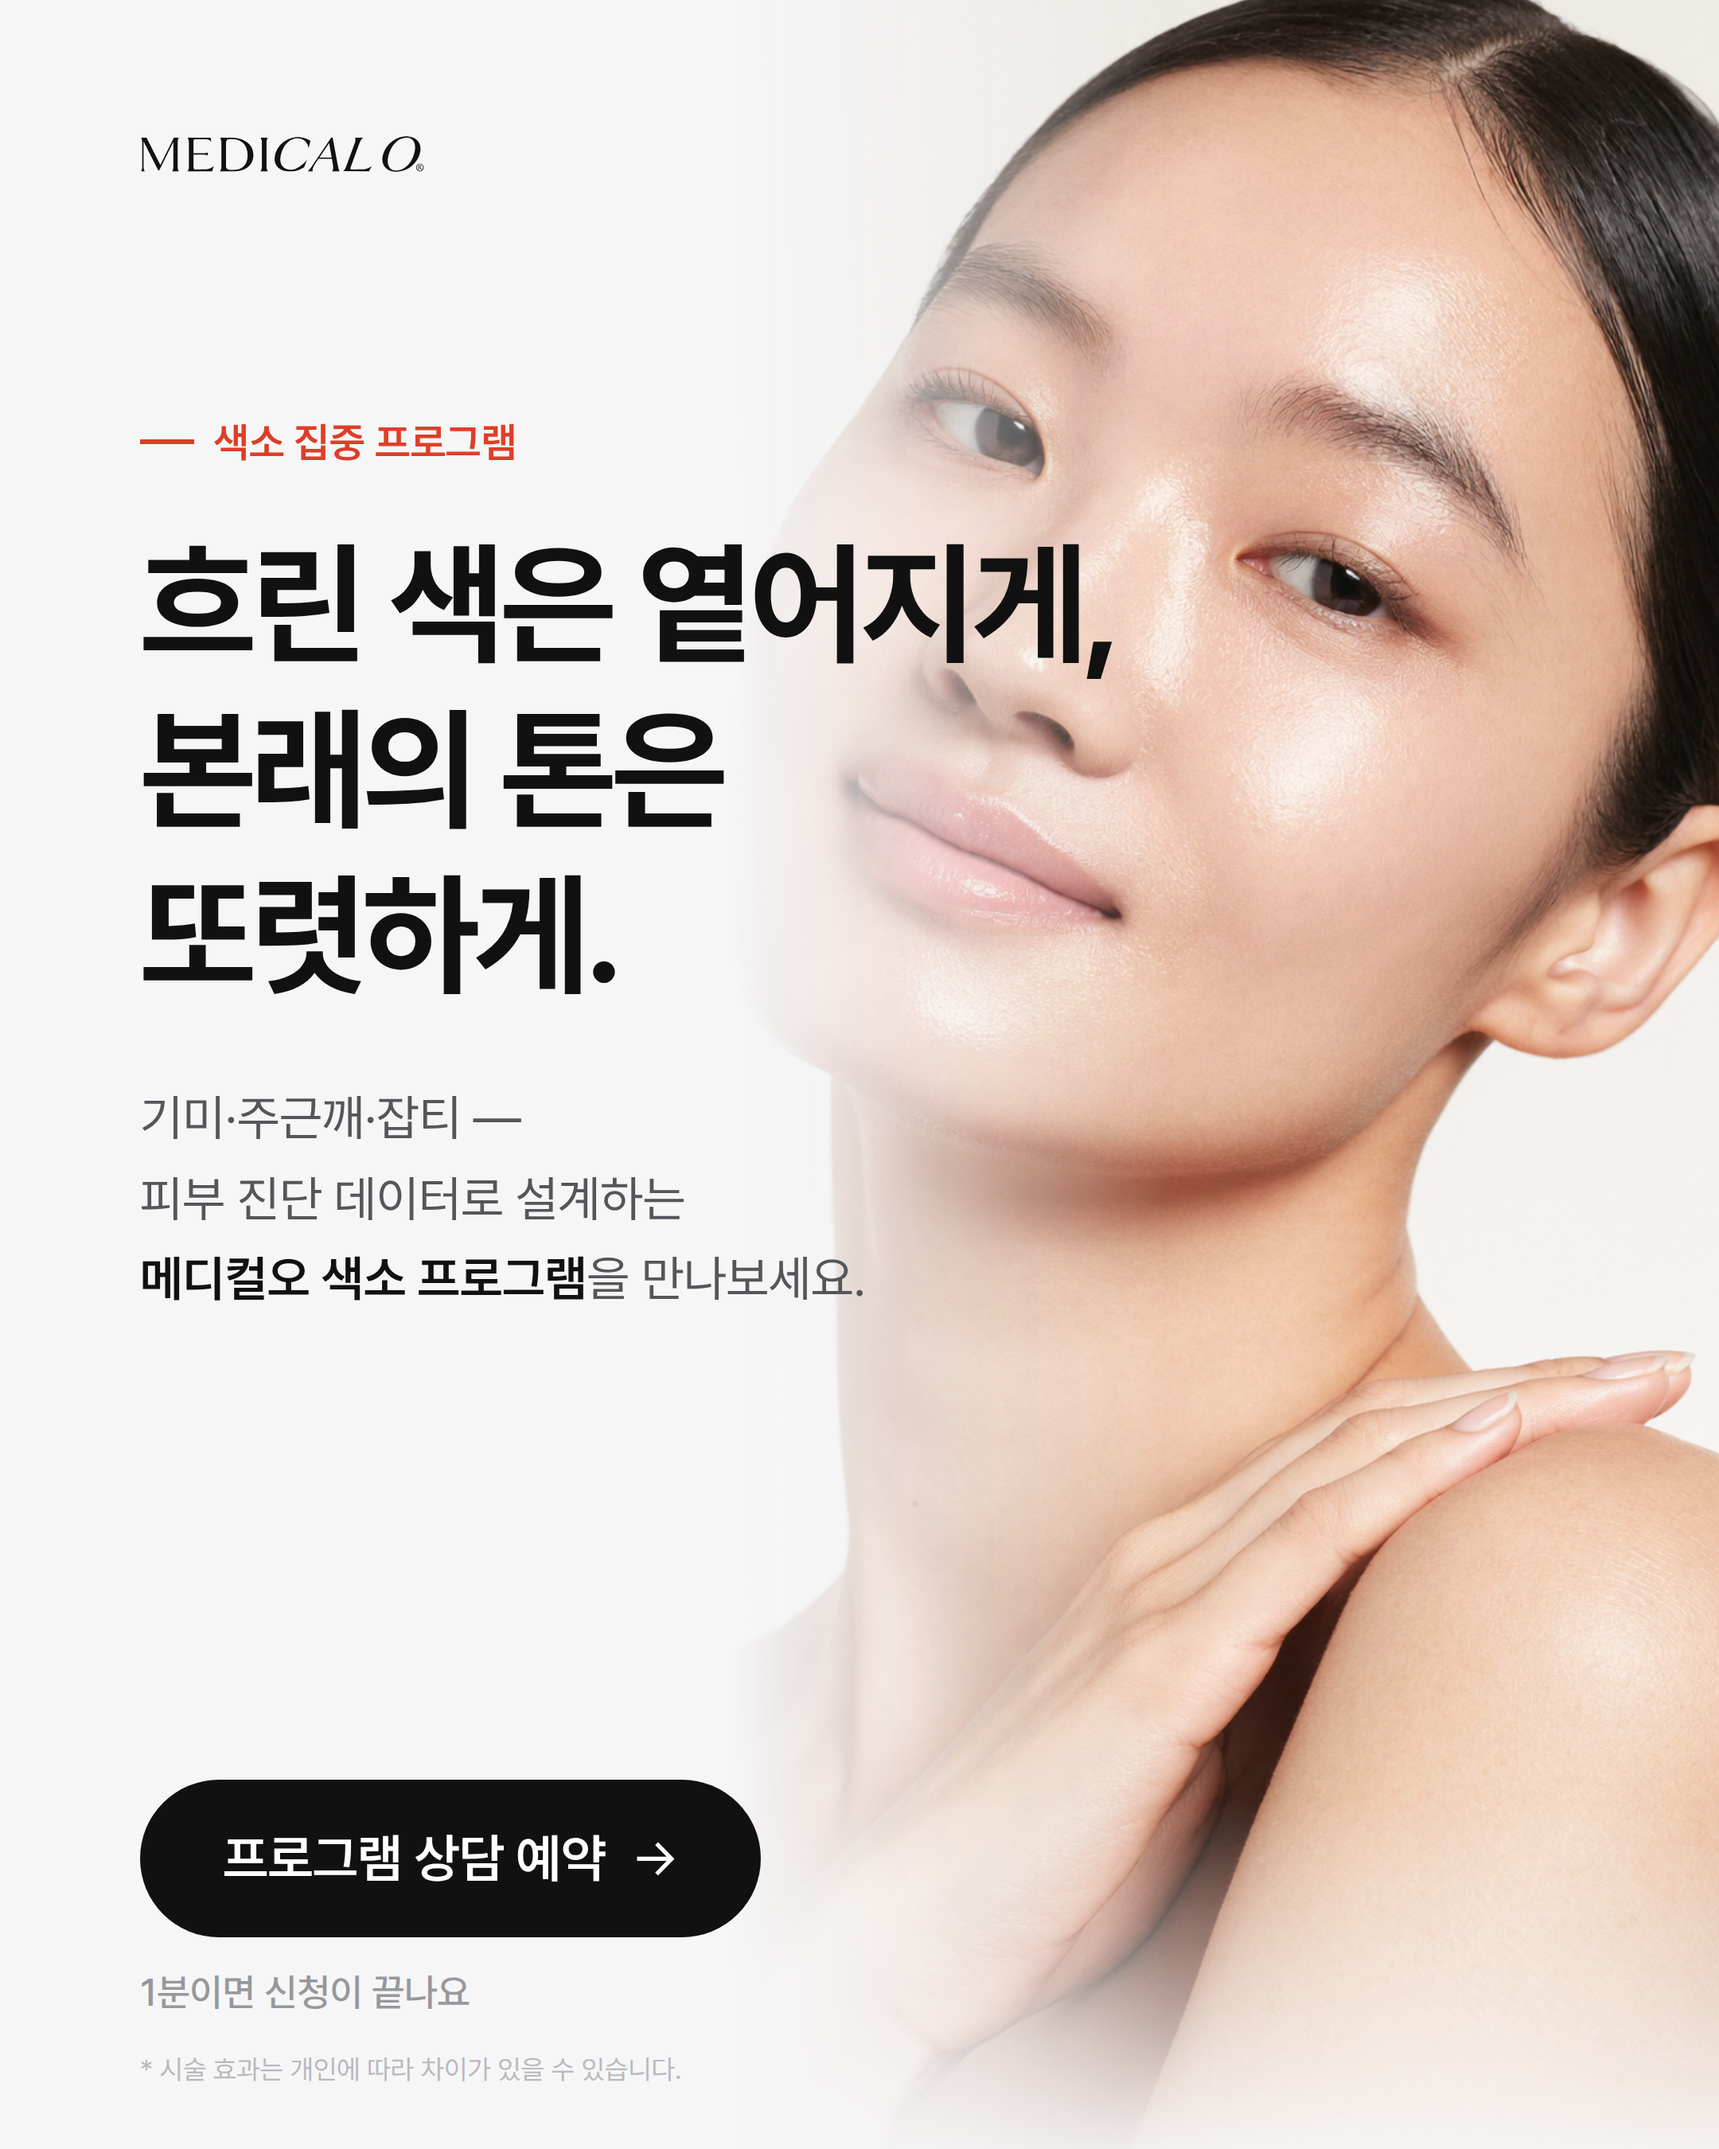
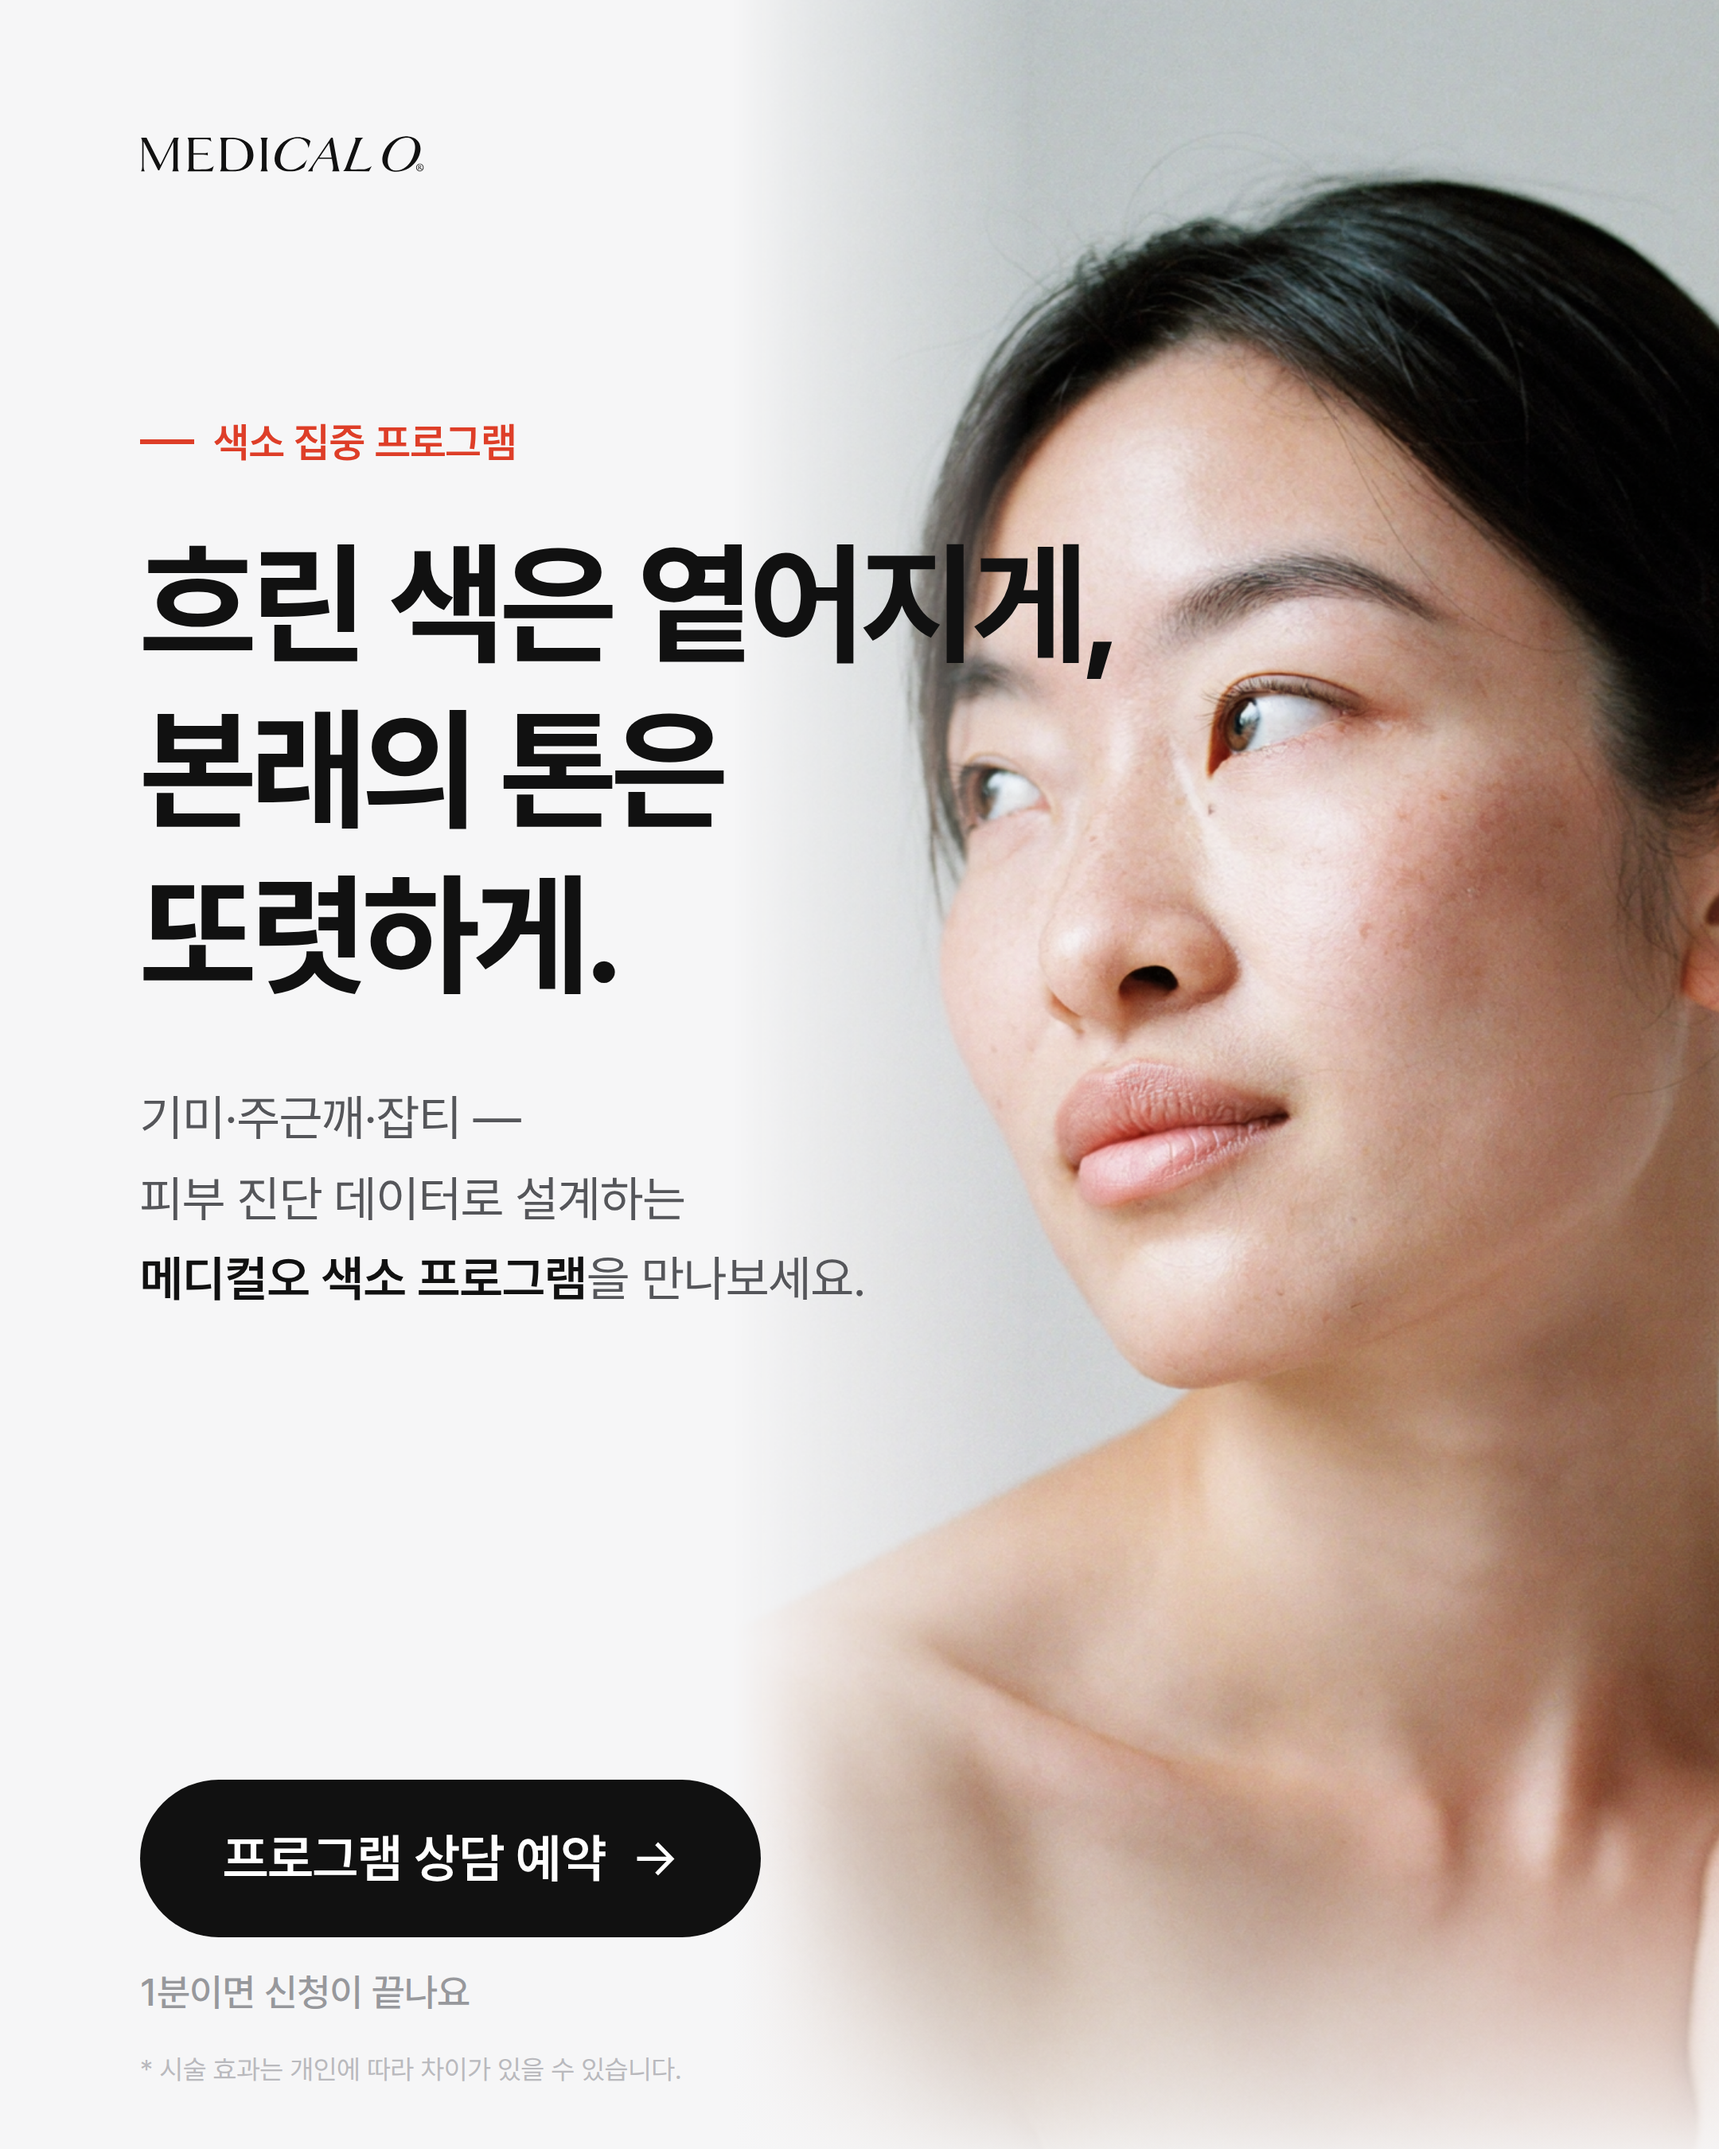
Swap hero to realistic film-look base cut; record real-skin prompt recipe
Claude-Session: https://claude.ai/code/session_014vdXC3kHvgwp2feVSbmaDw

diff --git a/ad-studio/templates/pigment-feed-1080x1350.html b/ad-studio/templates/pigment-feed-1080x1350.html
@@ -27,12 +27,12 @@
   .photo {
     position: absolute; top: 0; right: 0; bottom: 0; width: 620px;
     overflow: hidden;
-    -webkit-mask-image: linear-gradient(to right, transparent 0%, #000 44%);
-            mask-image: linear-gradient(to right, transparent 0%, #000 44%);
+    -webkit-mask-image: linear-gradient(to right, transparent 0%, #000 30%);
+            mask-image: linear-gradient(to right, transparent 0%, #000 30%);
   }
   .photo img {
     position: absolute; height: 116%; width: auto;
-    top: -110px; right: -170px; display: block;
+    top: -110px; left: -140px; display: block;
   }
   /* 바닥 쪽을 배경과 한 번 더 블렌딩 */
   .floor-blend {
@@ -84,7 +84,7 @@
 </head>
 <body>
 <div id="stage">
-  <div class="photo"><img src="../assets/img/hero-pigment-01.png" alt=""></div>
+  <div class="photo"><img src="../assets/img/hero-pigment-real-a.png" alt=""></div>
   <div class="floor-blend"></div>
 
   <div class="content">

diff --git a/ad-studio/LIBRARY.md b/ad-studio/LIBRARY.md
@@ -7,6 +7,8 @@
 | `56ac52ab-5e83-4c42-b363-14f24582de31` | soul_2 | 색소 캠페인 히어로 — 30대 초 여성 클로즈업, 글로우 스킨, #f6f6f7 배경, 좌측 여백 | 3:4 | 2026-07-26 |
 | `acbacb5f-791d-407b-86f9-9a3e7c7b13ee` | soul_2 | 숏폼 훅 컷 — 손거울로 모공 확인하는 20대 후반 여성, 욕실 아침광 | 9:16 | 2026-07-26 |
 | `d67b9363-0235-4d91-a433-4b2709d742b3` | soul_2 | 숏폼 클로징 컷 — 맑은 피부 클로즈업, 상단 텍스트 여백 | 9:16 | 2026-07-26 |
+| `622450e9-2320-4564-8df9-e578fa02f136` | soul_2 | **리얼스킨 히어로 A** (채택) — 필름룩, 주근깨/색소, 좌측 시선, `assets/img/hero-pigment-real-a.png` | 3:4 | 2026-08-04 |
+| `244ad0ca-263c-47b4-9e11-d5f8d1e6e970` | soul_2 | 리얼스킨 히어로 B (무디 버전, 보관) — `assets/img/hero-pigment-real-b.png` | 3:4 | 2026-08-04 |
 
 ## 완성 소재 (합성 렌더 결과)
 
@@ -21,3 +23,14 @@
    합성 시 인물 영역만 크롭해 쓰는 템플릿 구조가 안전하다.
 자산 파이프라인: 힉스필드 CDN이 차단된 세션에서는 `ad-studio/assets/manifest.txt`에
 "<URL> <경로>"를 추가하고 푸시하면 GitHub Actions(asset-sync)가 레포로 가져온다 → git pull 후 로컬 렌더.
+
+## 리얼스킨(실사) 프롬프트 레시피 — AI 티 제거의 핵심
+
+"flawless glass skin / luminous / ultra retouching" 류 표현이 AI 광택 피부의 원인.
+대신 아래 실사 신호를 조합할 것 (soul_2에서 검증됨, 2026-08-04):
+- `photographed on Hasselblad medium format with Kodak Portra 400 film`
+- `real human skin with visible pores, fine vellus hair, natural micro-imperfections, slightly uneven skin tone`
+- `matte natural finish with no glossy highlight, minimal no-makeup makeup`
+- `subtle film grain, documentary editorial realism, not digitally smoothed, no beauty retouching, no AI-perfect skin`
+- 조명은 스튜디오 대신 `soft diffused window daylight`
+주의: 필름 스캔 테두리가 같이 생성되므로 합성 시 크롭으로 제거할 것.
